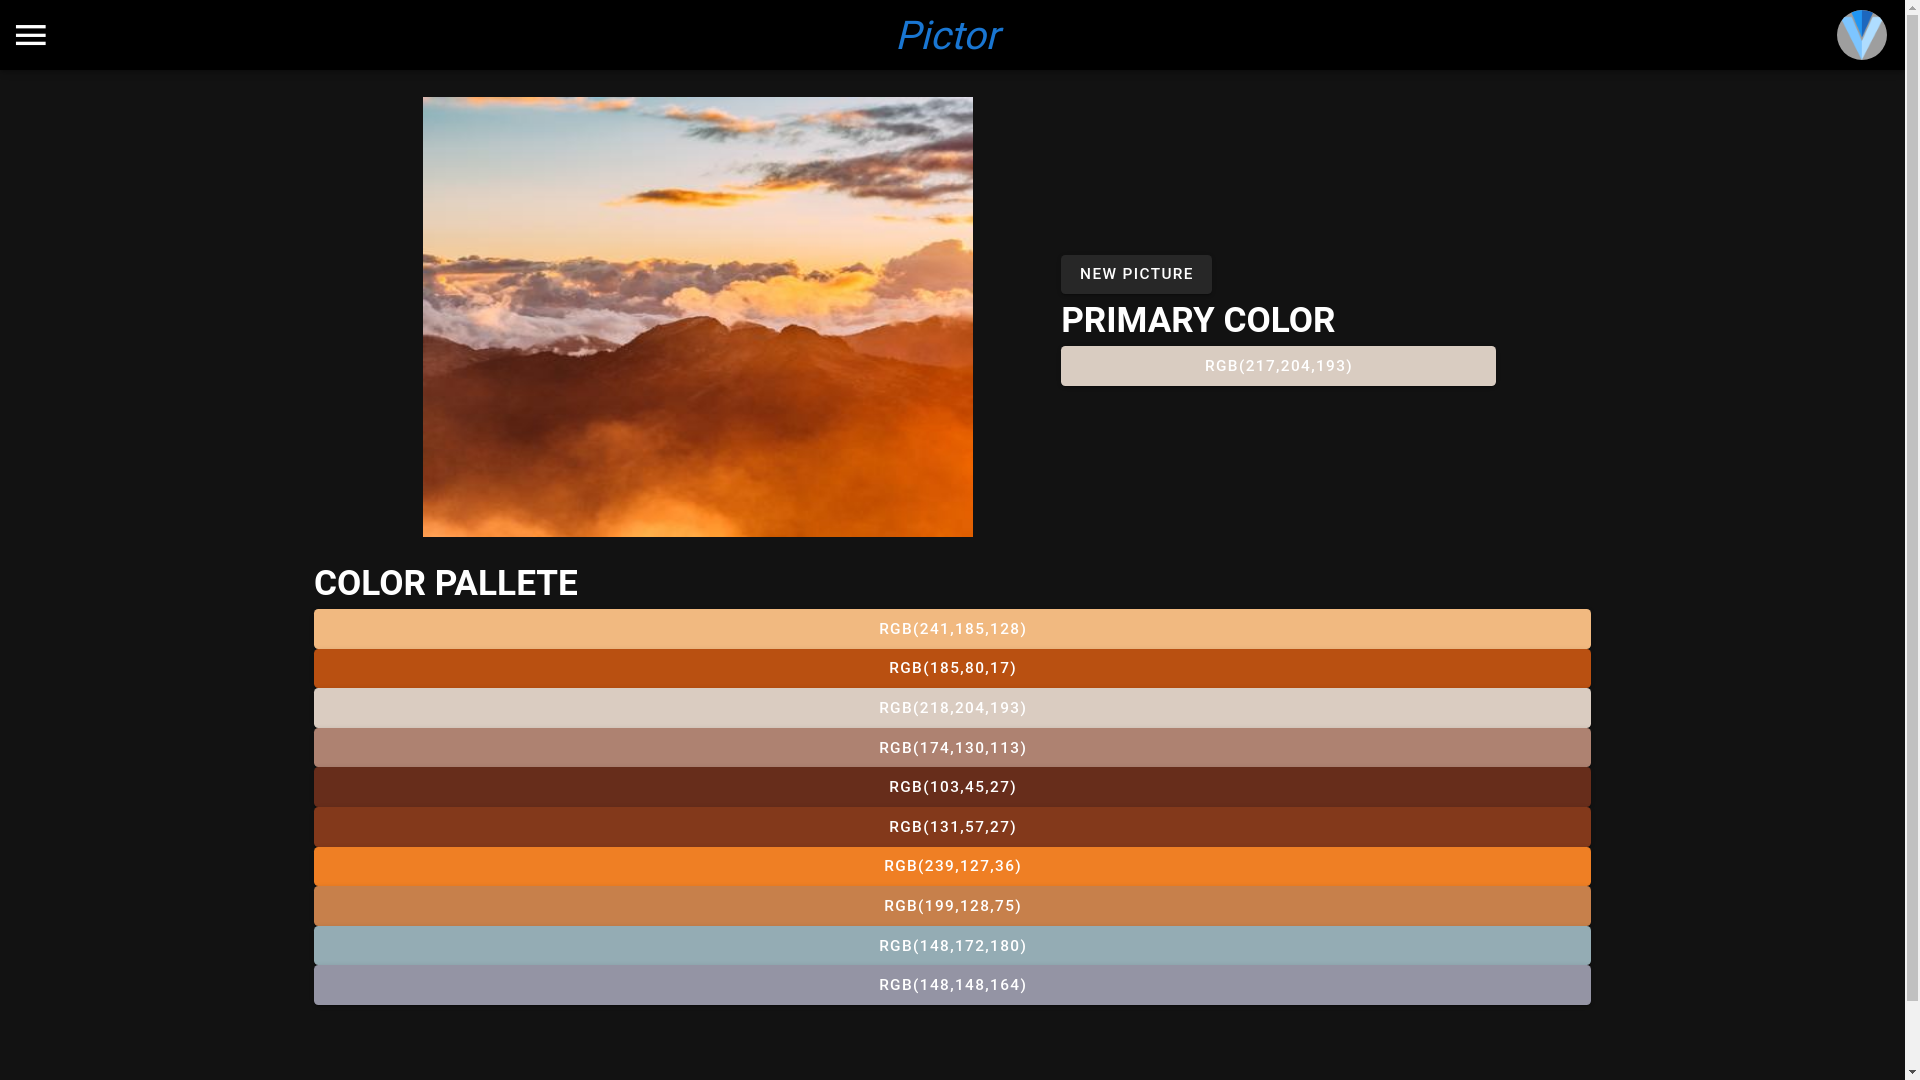
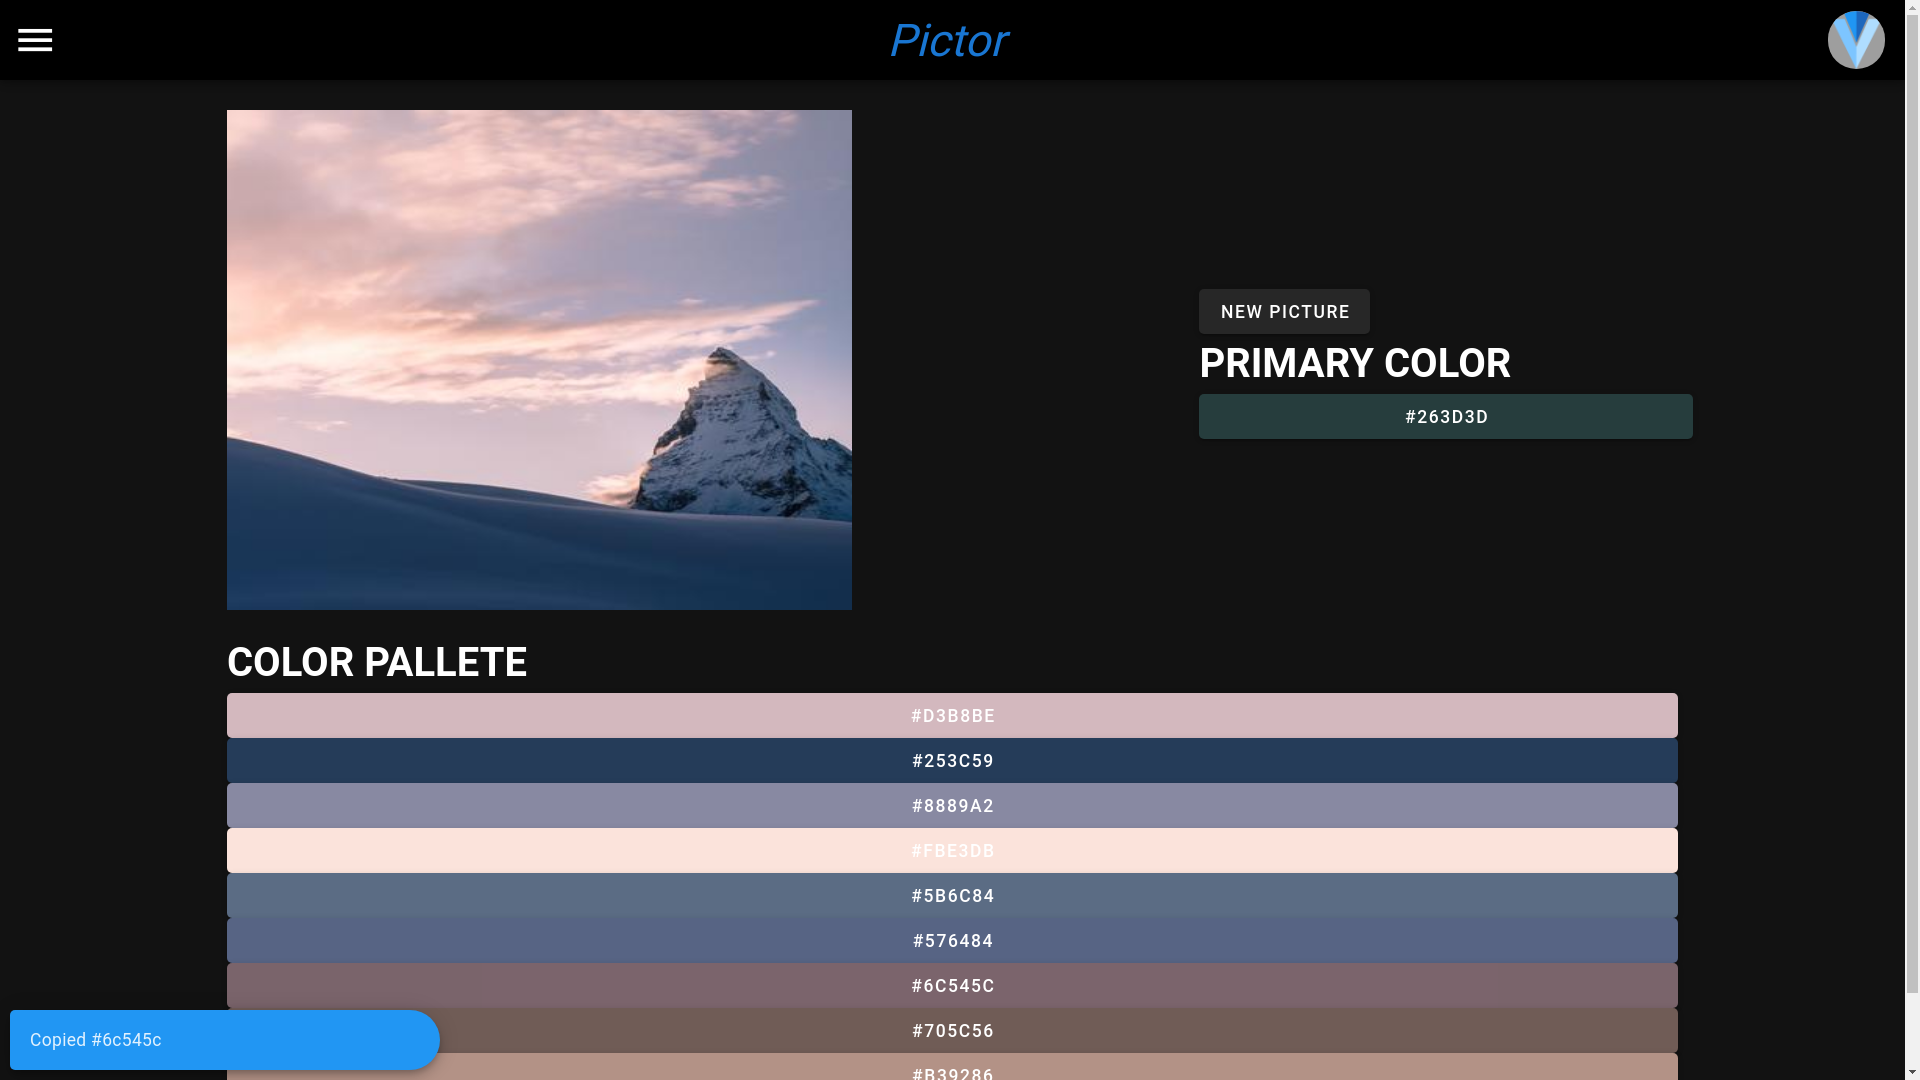
Added copy to clipboard and Hex colors in colorExtraction

diff --git a/pages/color.vue b/pages/color.vue
@@ -2,7 +2,7 @@
   <v-app>
     <v-container>
       <v-row justify="center">
-        <v-col cols="6" sm="6">
+        <v-col cols="12" sm="8">
           <img
             id="myimg"
             :src="source"
@@ -11,21 +11,36 @@
             crossorigin="anonymous"
           />
         </v-col>
-        <v-col cols="4" sm="4" align-self="center">
+        <v-col cols="12" sm="4" align-self="center">
           <v-row>
             <v-btn @click="reload"> NEW PICTURE </v-btn>
           </v-row>
           <v-row>
             <h1>PRIMARY COLOR</h1>
-            <v-btn :color="primary" block>{{ primary }}</v-btn>
+            <v-btn :color="primary" block @click="copyColor(primary)">{{
+              primary
+            }}</v-btn>
           </v-row>
         </v-col>
       </v-row>
       <h1>COLOR PALLETE</h1>
       <div v-for="(c, id) in colors" :key="id">
-        <v-btn :color="c.color" block>{{ c.color }}</v-btn>
+        <v-btn :color="c.color" block @click="copyColor(c.color)">{{
+          c.color
+        }}</v-btn>
       </div>
     </v-container>
+    <v-snackbar
+      v-model="successChip"
+      timeout="1000"
+      bottom
+      left
+      rounded="r-xl"
+      transition="slide-x-transition"
+      color="blue"
+    >
+      Copied {{ successChipText }}
+    </v-snackbar>
   </v-app>
 </template>
 
@@ -38,6 +53,8 @@ export default {
       colors: [],
       source: 'https://picsum.photos/400',
       primary: '',
+      successChip: false,
+      successChipText: '',
     }
   },
   mounted() {
@@ -54,11 +71,17 @@ export default {
 
       for (let i = 0; i < this.colors.length; ++i) {
         this.colors[i].value = this.colors[i]
-        this.colors[
-          i
-        ].color = `rgb(${this.colors[i].value[0]},${this.colors[i].value[1]},${this.colors[i].value[2]})`
+        this.colors[i].color = this.rgbToHex(
+          this.colors[i].value[0],
+          this.colors[i].value[1],
+          this.colors[i].value[2]
+        )
       }
-      this.primary = `rgb(${this.primary[0]},${this.primary[1]},${this.primary[2]})`
+      this.primary = this.rgbToHex(
+        this.primary[0],
+        this.primary[1],
+        this.primary[1]
+      )
     },
     loadImage(url, elem) {
       return new Promise((resolve, reject) => {
@@ -69,6 +92,26 @@ export default {
     },
     reload() {
       window.location.reload()
+    },
+    rgbToHex(r, g, b) {
+      return (
+        '#' +
+        [r, g, b]
+          .map((x) => {
+            const hex = x.toString(16)
+            return hex.length === 1 ? '0' + hex : hex
+          })
+          .join('')
+      )
+    },
+    copyColor(val) {
+      navigator.clipboard
+        .writeText(val)
+        .then(() => {
+          this.successChip = true
+          this.successChipText = val
+        })
+        .catch((err) => console.log(err))
     },
   },
 }
